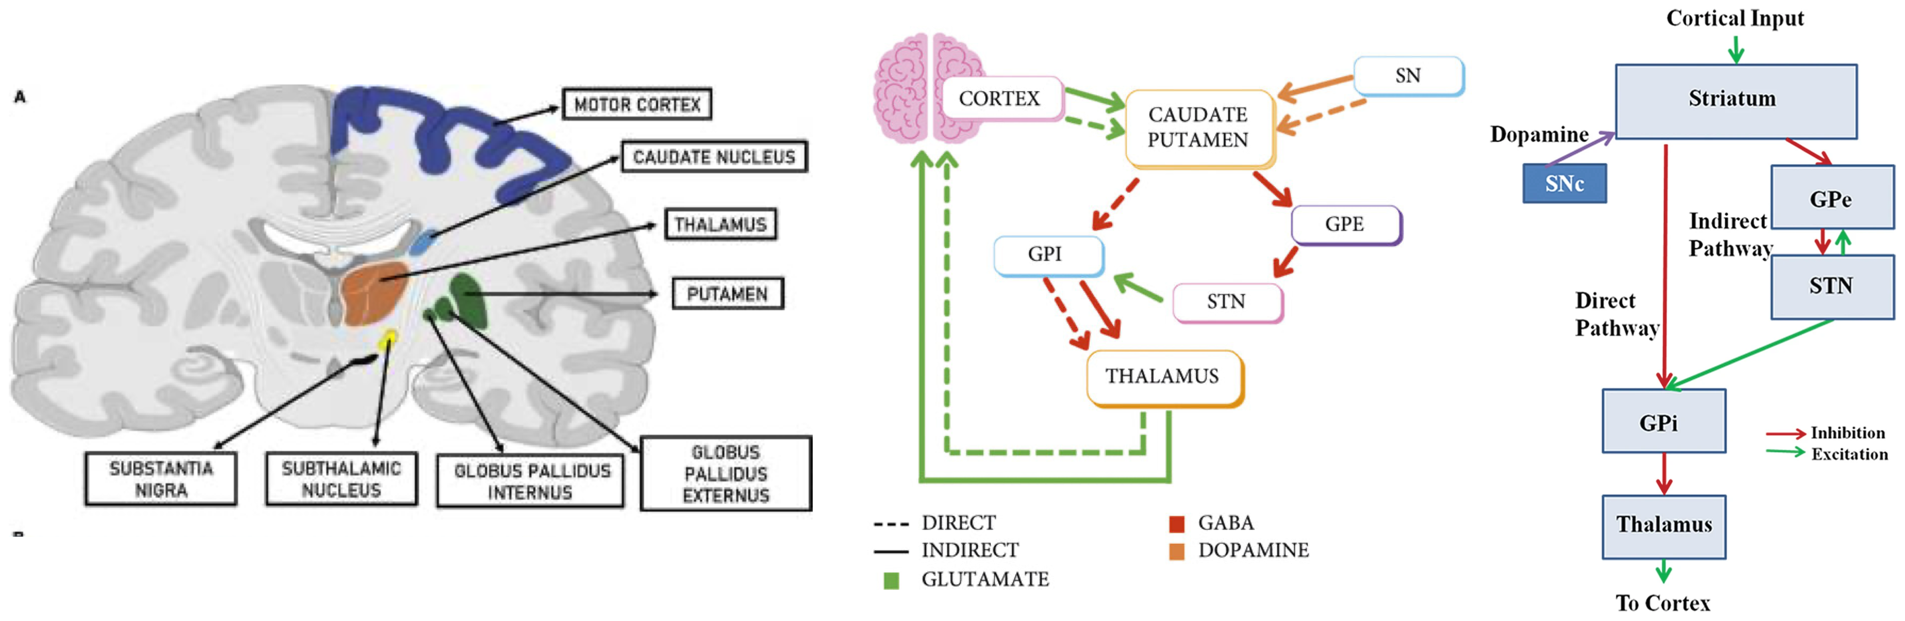
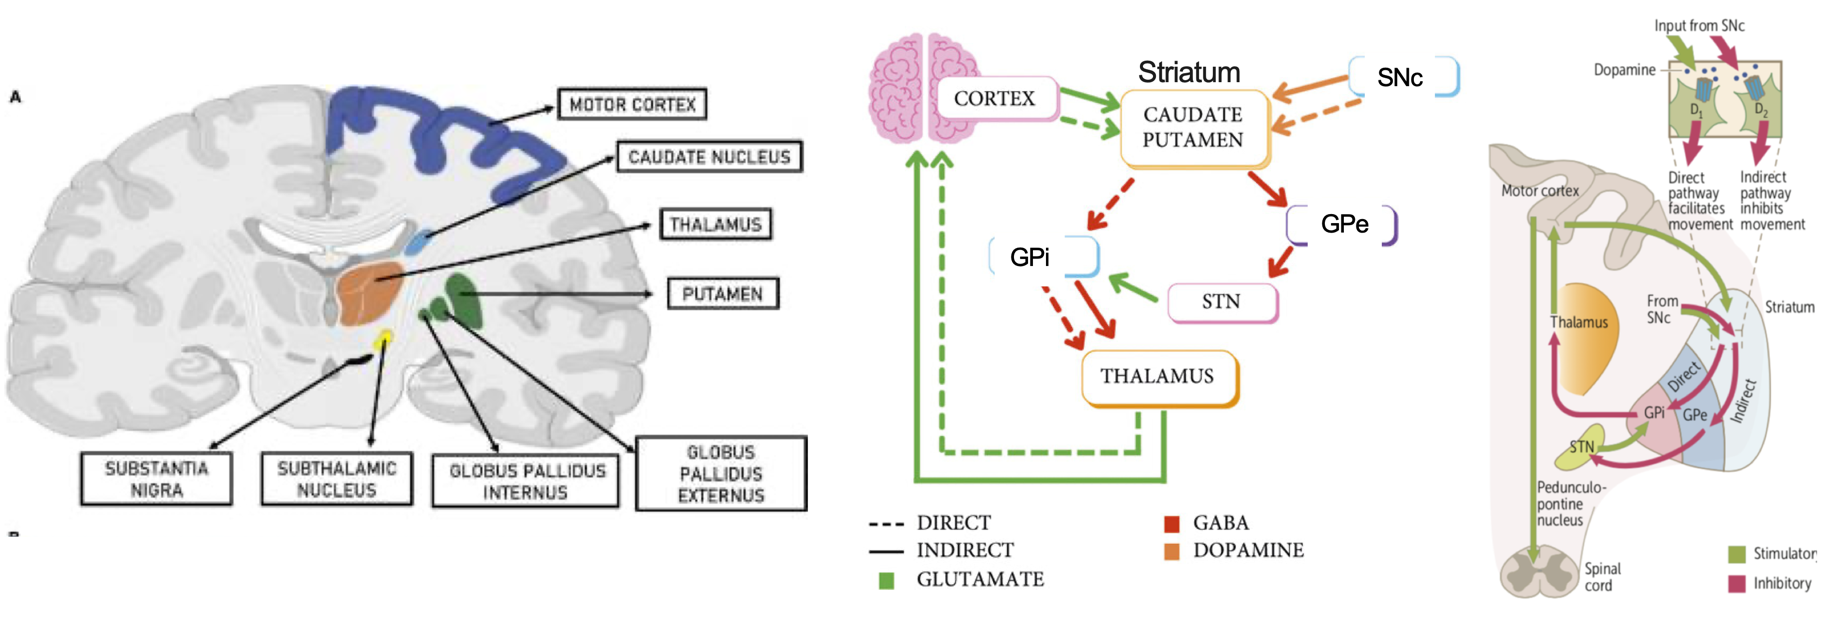
updated

diff --git a/_brain/2024-brain-complete.md b/_brain/2024-brain-complete.md
@@ -68,15 +68,17 @@ The **striatum** is the largest component of the basal ganglia and acts as the p
 
 These interconnected pathways allow the striatum to act as a central relay station for regulating movement, behavior, and cognitive processes. It processes information from various brain regions and sends feedback to ensure smooth and coordinated motor functions.
 
-Basal ganglia pathways (Images taken from Rocha GS et al., Front Syst Neurosci. 2023;  Audi A et al., Case Rep Neurol Med. 2023; Chakravarthy and Balasubramani. Encyclopedia of Computational Neuroscience. Springer, New York, NY, 2022).
+**Basal ganglia: Direct and indirect pathways of movement**  
 
+(Images taken from Rocha GS et al., Front Syst Neurosci. 2023;  Audi A et al., Case Rep Neurol Med. 2023).
 ![Basal ganglia](/images/Basalganglia.png) 
+(SN, substantia nigra; GPe, globus pallidus externus; GPi, globus pallidus internus; STN, subthalamic nucleus)  
 
-**Direct Pathway:**  
-The direct pathway begins in the cortex, where excitatory signals are sent to the striatum (caudate and putamen). These structures then send inhibitory signals to the globus pallidus internus (GPi), which inhibits the thalamus. Since the thalamus is responsible for movement, inhibiting an inhibitor results in overall stimulation of movement. Dopamine from the substantia nigra acts on this pathway via D1 receptors, further promoting movement.
+- **Direct Pathway**: 
+  - The direct pathway begins in the cortex, where excitatory signals are sent to the striatum (caudate and putamen). These structures then send inhibitory signals to the globus pallidus internus (GPi), which inhibits the thalamus. Since the thalamus is responsible for movement, inhibiting an inhibitor results in overall stimulation of movement. Dopamine from the substantia nigra acts on this pathway via D1 receptors, further promoting movement.
 
-**Indirect Pathway:**  
-The indirect pathway also starts with excitatory signals from the cortex to the caudate and putamen. In response, the caudate and putamen send inhibitory signals to the globus pallidus externus (GPe), which normally inhibits the subthalamic nucleus (STN). When the GPe is inhibited, the STN becomes more active and stimulates the globus pallidus internus (GPi). This leads to the GPi inhibiting the thalamus, resulting in suppression of movement. Dopamine from the substantia nigra influences this pathway through D2 receptors, reducing its inhibitory effects on movement. 
+- **Indirect Pathway**: 
+  - The indirect pathway also starts with excitatory signals from the cortex to the caudate and putamen. In response, the caudate and putamen send inhibitory signals to the globus pallidus externus (GPe), which normally inhibits the subthalamic nucleus (STN). When the GPe is inhibited, the STN becomes more active and stimulates the globus pallidus internus (GPi). This leads to the GPi inhibiting the thalamus, resulting in suppression of movement. Dopamine from the substantia nigra influences this pathway through D2 receptors, reducing its inhibitory effects on movement. 
 
 (SN, substantia nigra; GPe, globus pallidus externus; GPi, globus pallidus internus; STN, subthalamic nucleus).
 
